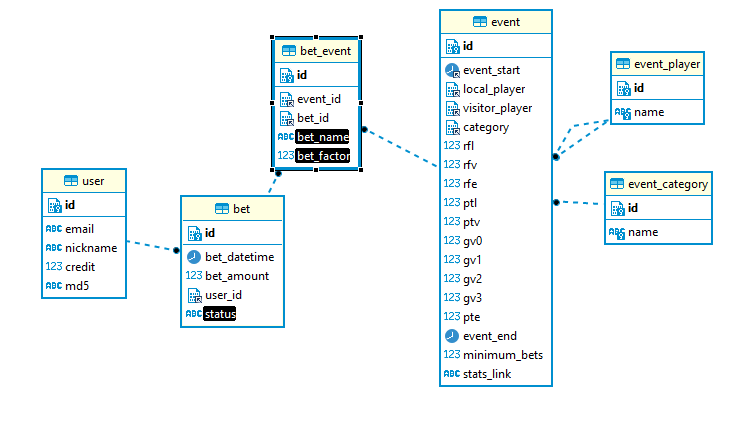
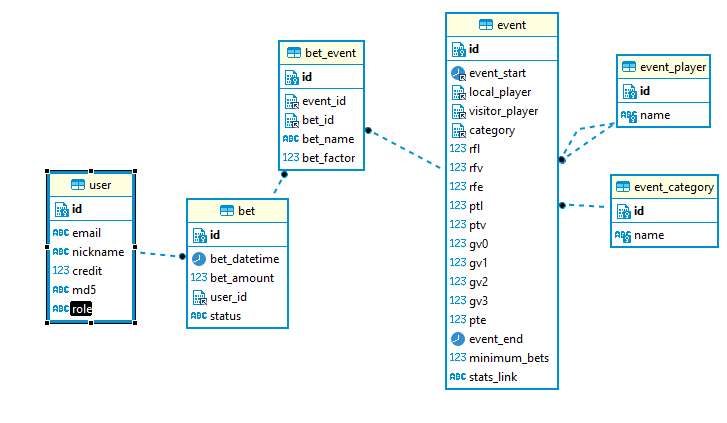
campo role para usuarios y wip en los controllers

Changed region(s): [[0.5447, 0.0, 0.9986, 0.922], [0.0303, 0.0615, 0.5447, 0.7991]]

diff --git a/backend/sportsbet_server/controllers/event_controller.py b/backend/sportsbet_server/controllers/event_controller.py
@@ -12,4 +12,9 @@ def get_events():  # noqa: E501
 
     :rtype: Dict[str, int]
     """
-    return 'do some magic!'
+    events = [
+        { "category": "Futbol de Chile - Primera Division", "event_end": "2020-08-01 08:50", "event_start": "2020-08-01 08:50", "gv0": 1.2, "gv1": 1.2, "gv2": 1.2, "gv3": 1.2, "id": "07cb3c2c-b40c-472f-b05c-7168ac4327e0", "local_player": "U. de Chile", "pte": 1.2, "ptl": 1.2, "ptv": 1.2, "rfe": 1.2, "rfv": 1.2, "rlf": 1.2, "visitor_player": "U. de Chile" },
+        { "category": "Futbol de Chile - Primera Division", "event_end": "2020-08-01 08:50", "event_start": "2020-08-01 08:50", "gv0": 1.2, "gv1": 1.2, "gv2": 1.2, "gv3": 1.2, "id": "07cb3c2c-b40c-472f-b05c-7168ac4327e0", "local_player": "U. de Chile", "pte": 1.2, "ptl": 1.2, "ptv": 1.2, "rfe": 1.2, "rfv": 1.2, "rlf": 1.2, "visitor_player": "U. de Chile" },
+        { "category": "Futbol de Chile - Primera Division", "event_end": "2020-08-01 08:50", "event_start": "2020-08-01 08:50", "gv0": 1.2, "gv1": 1.2, "gv2": 1.2, "gv3": 1.2, "id": "07cb3c2c-b40c-472f-b05c-7168ac4327e0", "local_player": "U. de Chile", "pte": 1.2, "ptl": 1.2, "ptv": 1.2, "rfe": 1.2, "rfv": 1.2, "rlf": 1.2, "visitor_player": "U. de Chile" }
+    ]
+    return events

diff --git a/backend/sportsbet_server/__main__.py b/backend/sportsbet_server/__main__.py
@@ -8,7 +8,10 @@ import connexion
 def main():
     app = connexion.App(__name__, specification_dir='./openapi/')
     #app.app.json = encoder.JSONEncoder
-    app.add_api('sportsbet_server.yaml', arguments={'title': 'SportsBet Backend 0.1.1'}, pythonic_params=True)
+    app.add_api('sportsbet_server.yaml',
+     arguments={'title': 'SportsBet Backend 0.1.1'}, 
+     pythonic_params=True,
+     options = {"swagger_ui": True})
     app.run(port=8080)
 
 

diff --git a/backend/README.md b/backend/README.md
@@ -31,6 +31,14 @@ To launch the integration tests, use tox:
 sudo pip install tox
 tox
 ```
+### In case  of "importerror: cannot import name soft_unicode from markupsafe"
+
+try fixing running:
+```
+pip install --user --upgrade aws-sam-cli
+```
+or check this out:
+https://www.datasciencelearner.com/importerror-cannot-import-name-soft-unicode-from-markupsafe-solved/
 
 ## Running with Docker
 
